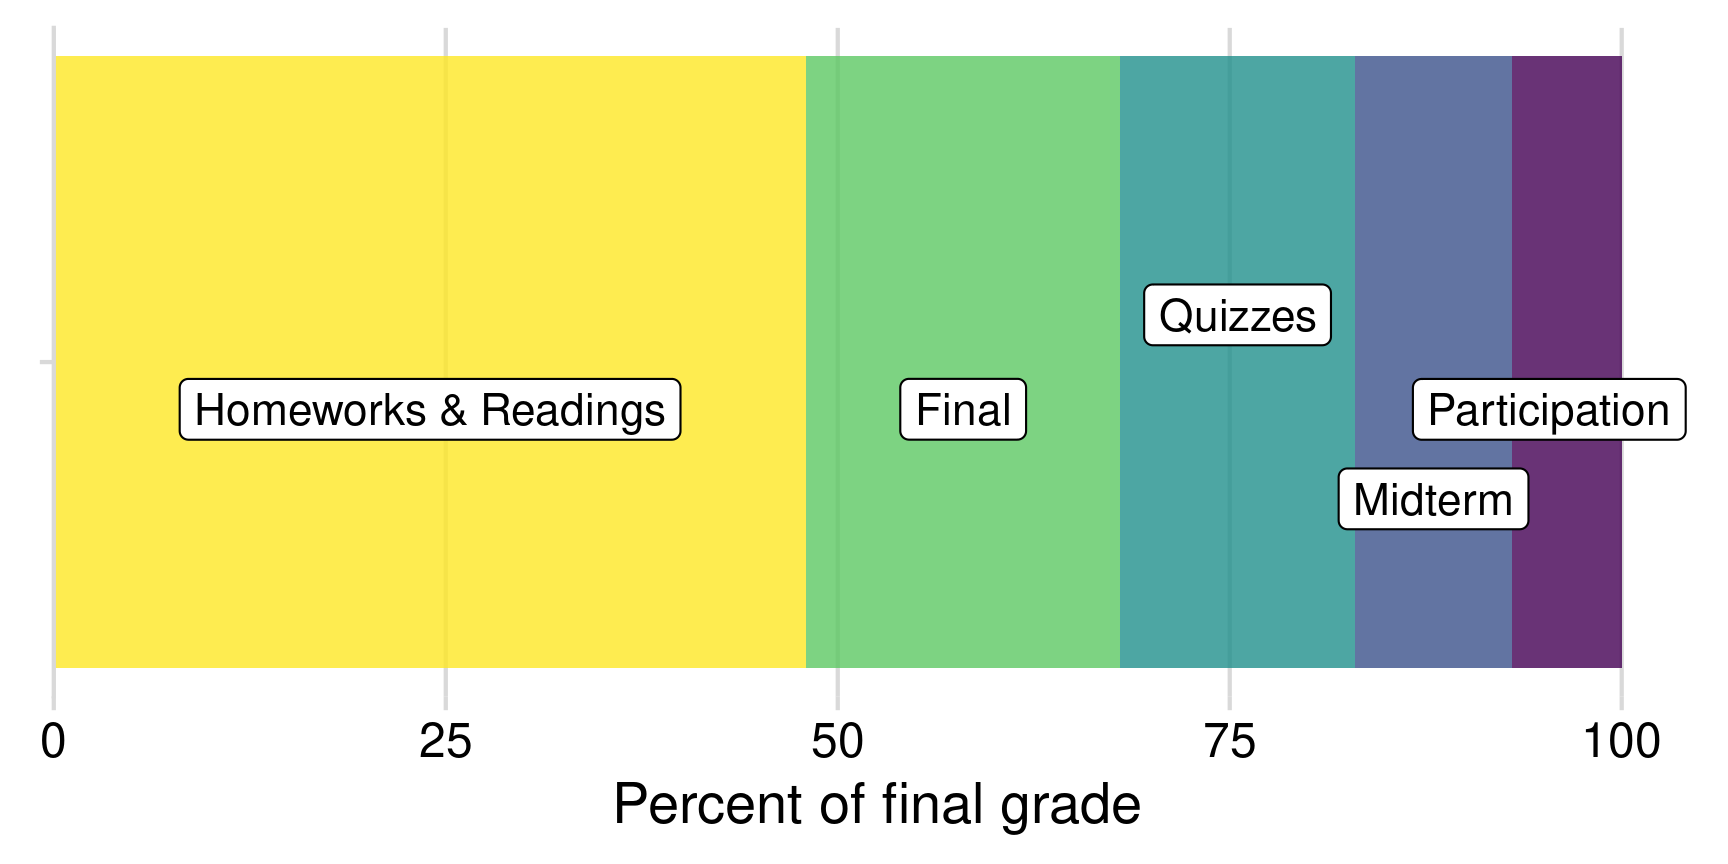
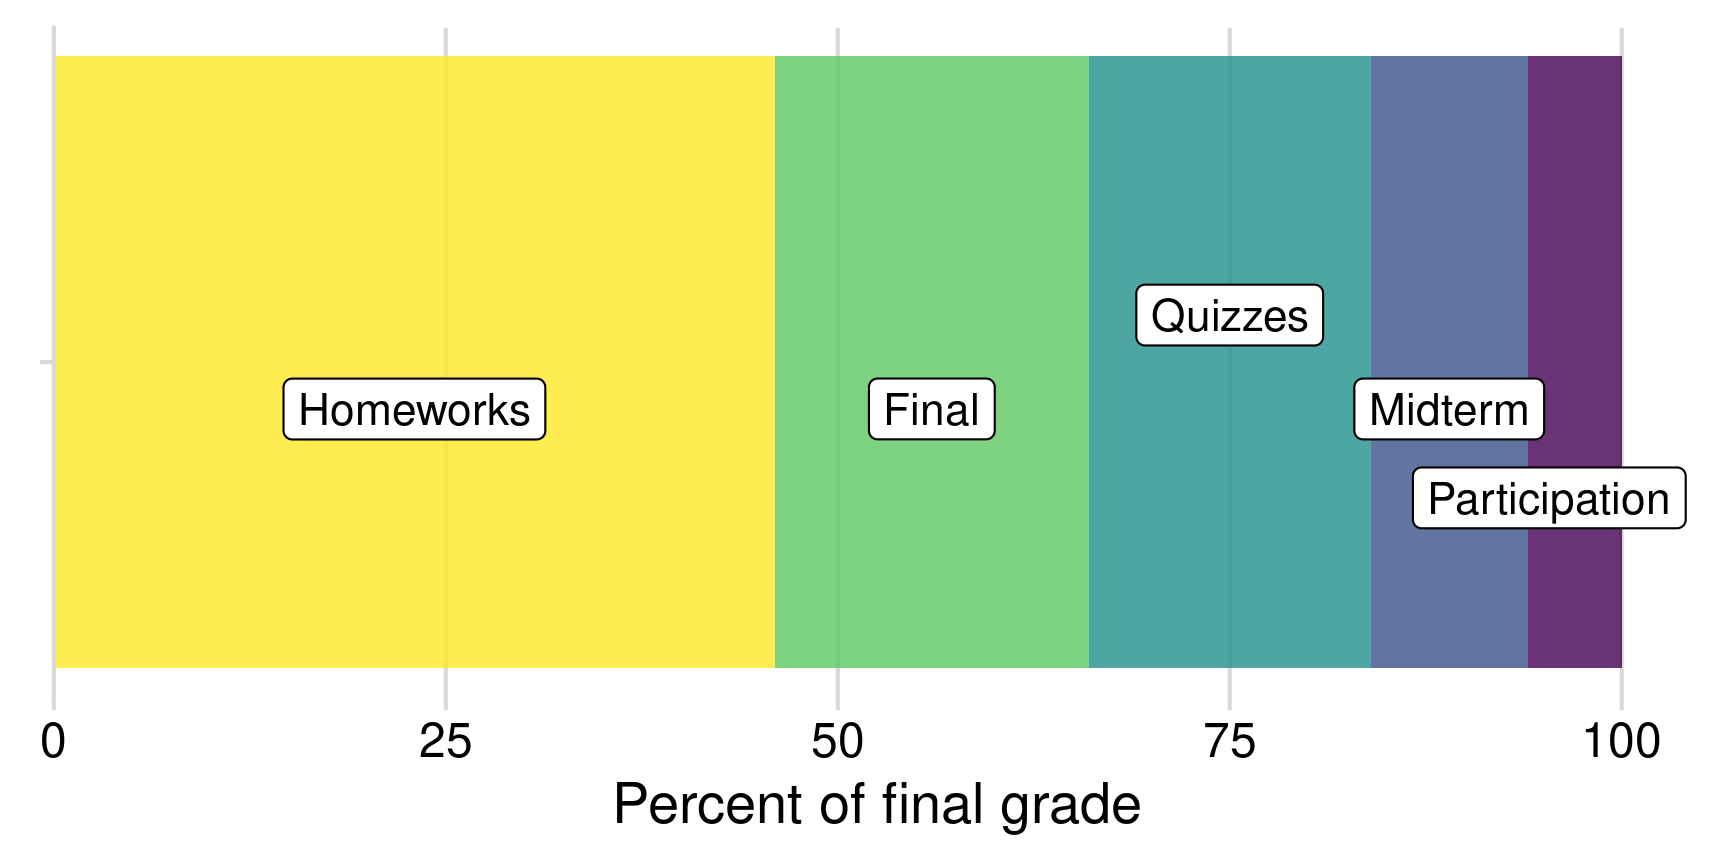
Built site for gh-pages

diff --git a/schedule.html b/schedule.html
@@ -317,7 +317,8 @@ Due: Feb 14</td>
 <tr class="odd">
 <td style="text-align: center; width: 2em;">5</td>
 <td style="text-align: center; width: 3em;">Feb 13</td>
-<td style="text-align: left;"></td>
+<td style="text-align: left;">Quiz 4:<br>
+<em>Weeks 3 - 4</em></td>
 <td style="text-align: left; width: 16em;"><a href="class/5-iteration.html"><strong>Iteration</strong></a><br>
 Ins and outs of loops</td>
 <td style="text-align: left; width: 15em;"><a href="hw/5-iteration.html"><strong>HW 5</strong></a><br>
@@ -327,7 +328,8 @@ Due: Feb 21</td>
 <tr class="even">
 <td style="text-align: center; width: 2em;">6</td>
 <td style="text-align: center; width: 3em;">Feb 20</td>
-<td style="text-align: left;"></td>
+<td style="text-align: left;">Quiz 5:<br>
+<em>Weeks 4 - 5</em></td>
 <td style="text-align: left; width: 16em;"><a href="class/6-vectors.html"><strong>Vectors</strong></a><br>
 Creating and slicing collections of values</td>
 <td style="text-align: left; width: 15em;"><a href="hw/6-vectors.html"><strong>HW 6</strong></a><br>
@@ -337,7 +339,7 @@ Due: Feb 28</td>
 <tr class="odd">
 <td style="text-align: center; width: 2em;">7</td>
 <td style="text-align: center; width: 3em;">Feb 27</td>
-<td style="text-align: left;">Quiz 4:<br>
+<td style="text-align: left;">Quiz 6:<br>
 <em>Weeks 5 - 6</em></td>
 <td style="text-align: left; width: 16em;"><a href="class/7-strings.html"><strong>Strings</strong></a><br>
 All things between quotes</td>
@@ -377,7 +379,7 @@ Due: Mar 26</td>
 <tr class="odd">
 <td style="text-align: center; width: 2em;">11</td>
 <td style="text-align: center; width: 3em;">Mar 27</td>
-<td style="text-align: left;">Quiz 5:<br>
+<td style="text-align: left;">Quiz 7:<br>
 <em>Week 10</em></td>
 <td style="text-align: left; width: 16em;"><a href="class/9-data-wrangling.html"><strong>Data Wrangling</strong></a><br>
 Modifying data frames</td>
@@ -388,7 +390,8 @@ Due: Apr 02</td>
 <tr class="even">
 <td style="text-align: center; width: 2em;">12</td>
 <td style="text-align: center; width: 3em;">Apr 03</td>
-<td style="text-align: left;"></td>
+<td style="text-align: left;">Quiz 8:<br>
+<em>Week 11</em></td>
 <td style="text-align: left; width: 16em;"><a href="class/10-data-visualization.html"><strong>Data Visualization</strong></a><br>
 Visualizing your data</td>
 <td style="text-align: left; width: 15em;"><a href="hw/10-data-visualization.html"><strong>HW 10</strong></a><br>
@@ -398,8 +401,8 @@ Due: Apr 09</td>
 <tr class="odd">
 <td style="text-align: center; width: 2em;">13</td>
 <td style="text-align: center; width: 3em;">Apr 10</td>
-<td style="text-align: left;">Quiz 6:<br>
-<em>Weeks 11 - 12</em></td>
+<td style="text-align: left;">Quiz 9:<br>
+<em>Week 12</em></td>
 <td style="text-align: left; width: 16em;"><a href="class/11-programming-with-data.html"><strong>Programming with Data</strong></a><br>
 Iterating through data frames and writing functions to summarize data</td>
 <td style="text-align: left; width: 15em;"><a href="hw/11-programming-with-data.html"><strong>HW 11</strong></a><br>
@@ -410,7 +413,8 @@ Due: Apr 16</td>
 <tr class="even">
 <td style="text-align: center; width: 2em;">14</td>
 <td style="text-align: center; width: 3em;">Apr 17</td>
-<td style="text-align: left;"></td>
+<td style="text-align: left;">Quiz 10:<br>
+<em>Week 13</em></td>
 <td style="text-align: left; width: 16em;"><a href="class/12-webscraping.html"><strong>Webscraping</strong></a><br>
 Collecting data embedded in web pages</td>
 <td style="text-align: left; width: 15em;"><a href="hw/12-webscraping.html"><strong>HW 12</strong></a><br>
@@ -421,8 +425,7 @@ Due: Apr 23</td>
 <tr class="odd">
 <td style="text-align: center; width: 2em;">15</td>
 <td style="text-align: center; width: 3em;">Apr 24</td>
-<td style="text-align: left;">Quiz 7:<br>
-<em>Week 13</em></td>
+<td style="text-align: left;"></td>
 <td style="text-align: left; width: 16em;"><a href="class/13-monte-carlo-methods.html"><strong>Monte Carlo Methods</strong></a><br>
 Using simulation to solve problems</td>
 <td style="text-align: left; width: 15em;"><a href="hw/13-monte-carlo-methods.html"><strong>HW 13</strong></a><br>

diff --git a/syllabus.html b/syllabus.html
@@ -447,9 +447,10 @@ ul.task-list li input[type="checkbox"] {
 </section>
 <section id="quizzes" class="level2">
 <h2 class="anchored" data-anchor-id="quizzes">Quizzes</h2>
-<p>There will be 7 quizzes given about once every other week immediately at the beginning of class. Please show up on time to class each week to ensure that you do not miss a quiz.</p>
-<p><strong>Make up quizzes are not available</strong> if you miss it or are late to class. If you arrive late, you will be allowed to take the quiz in the remaining time left. Make ups will only be allowed for excused absences that are discussed and agreed upon with the professor prior to class. If you contact the professor after class for a make up, it will not be granted under any circumstances. If you cannot make it to class because of an emergency, you should notify the professor <strong>before</strong> class.</p>
-<p>Quizzes are <strong>short</strong> (10 minutes) and are designed to test for fluency and to demonstrate where additional study is needed. They will cover material presented in previous classes and assignments during the weeks since the most-recent quiz. <strong>Quizzes are low-stakes</strong> - your worst one is dropped, and the rest count for a small portion of your final grade. If you do poorly on one or two, use that as feedback on where you need additional improvement.</p>
+<p>There will be 10 short quizzes throughout the semester, each given immediately at the beginning of class. Please show up on time to class each week to ensure that you do not miss a quiz.</p>
+<p>Quizzes are <strong>short</strong> (10 minutes) and are designed to test for fluency and to demonstrate where additional study is needed. They will cover material presented in previous classes and assignments during the weeks since the most-recent quiz. Quizzes are also relatively low-stakes - your worst two are dropped, and the rest count for a relatively smaller portion of your final grade. If you do poorly on one or two, use that as feedback on where you need additional improvement.</p>
+<p><strong>The best way to ensure you do well on quizzes is to be active in class and complete you assignments on time</strong></p>
+<p><strong>Make up quizzes are not available</strong>. If you arrive late, you can take the quiz in the remaining time left, but you will not be given additional time. Make ups will only be allowed for excused absences that are discussed and agreed upon with the professor <em>prior</em> to class. If you contact the professor after class for a make up, it will not be granted unless a true emergency prevented you from attending class that could not have been communicated earlier. If you have an excused absence you expect, you must notify the professor <strong>before</strong> class to schedule a make up.</p>
 <blockquote class="blockquote">
 <p><strong>Why quiz at all?</strong> Research shows that giving small quizzes throughout a class can dramatically help with <em>retention</em>. It’s a phenomenon known as the “retrieval effect” - basically, you have to <em>practice</em> remembering things, otherwise your brain won’t remember them. The phenomenon and research on it is explained in detail in the book <a href="https://www.hup.harvard.edu/catalog.php?isbn=9780674729018">“Make It Stick: The Science of Successful Learning,”</a> by Brown, Roediger, and McDaniel.</p>
 </blockquote>
@@ -496,17 +497,17 @@ ul.task-list li input[type="checkbox"] {
 <tbody>
 <tr class="odd">
 <td>Participation / Attendance</td>
-<td>7%</td>
+<td>6%</td>
 <td>(Yes, I take attendance)</td>
 </tr>
 <tr class="even">
 <td>Homeworks &amp; Readings (13x)</td>
-<td>48%</td>
+<td>46%</td>
 <td>Lowest 1 dropped</td>
 </tr>
 <tr class="odd">
-<td>Quizzes (7x)</td>
-<td>15%</td>
+<td>Quizzes (10x)</td>
+<td>18%</td>
 <td>Lowest 2 dropped</td>
 </tr>
 <tr class="even">
